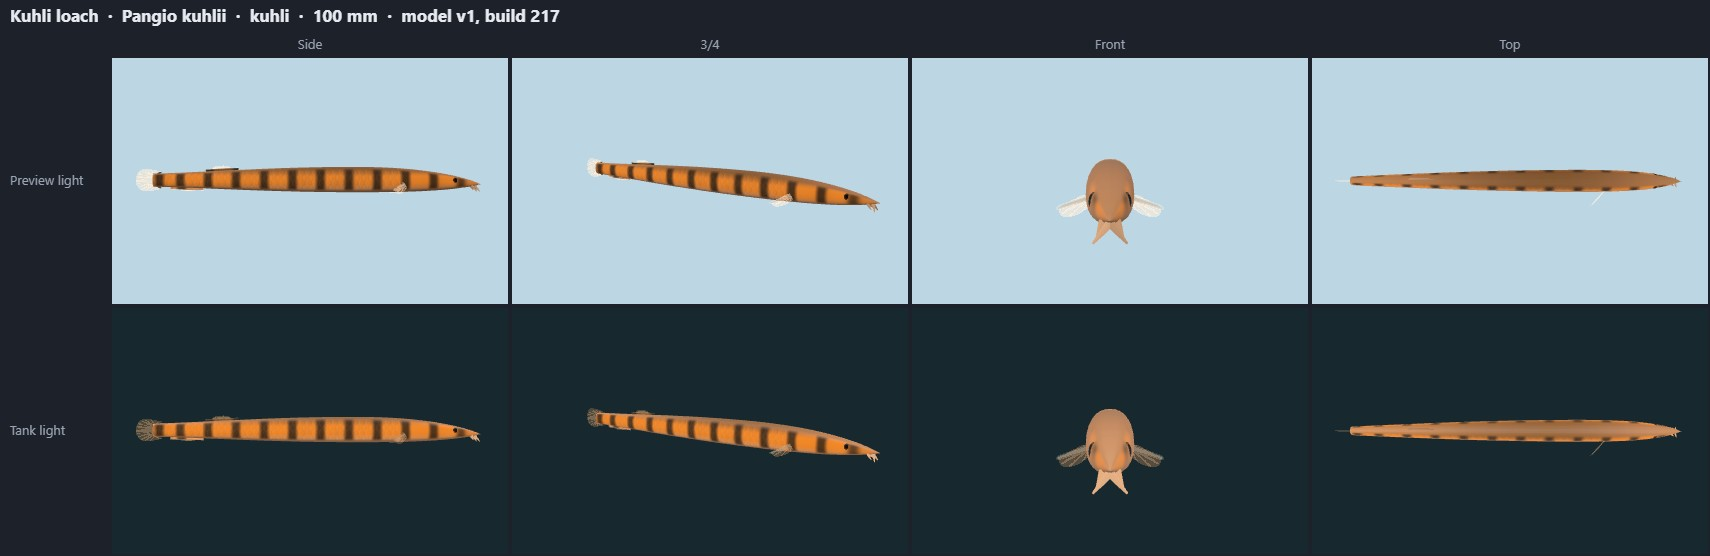
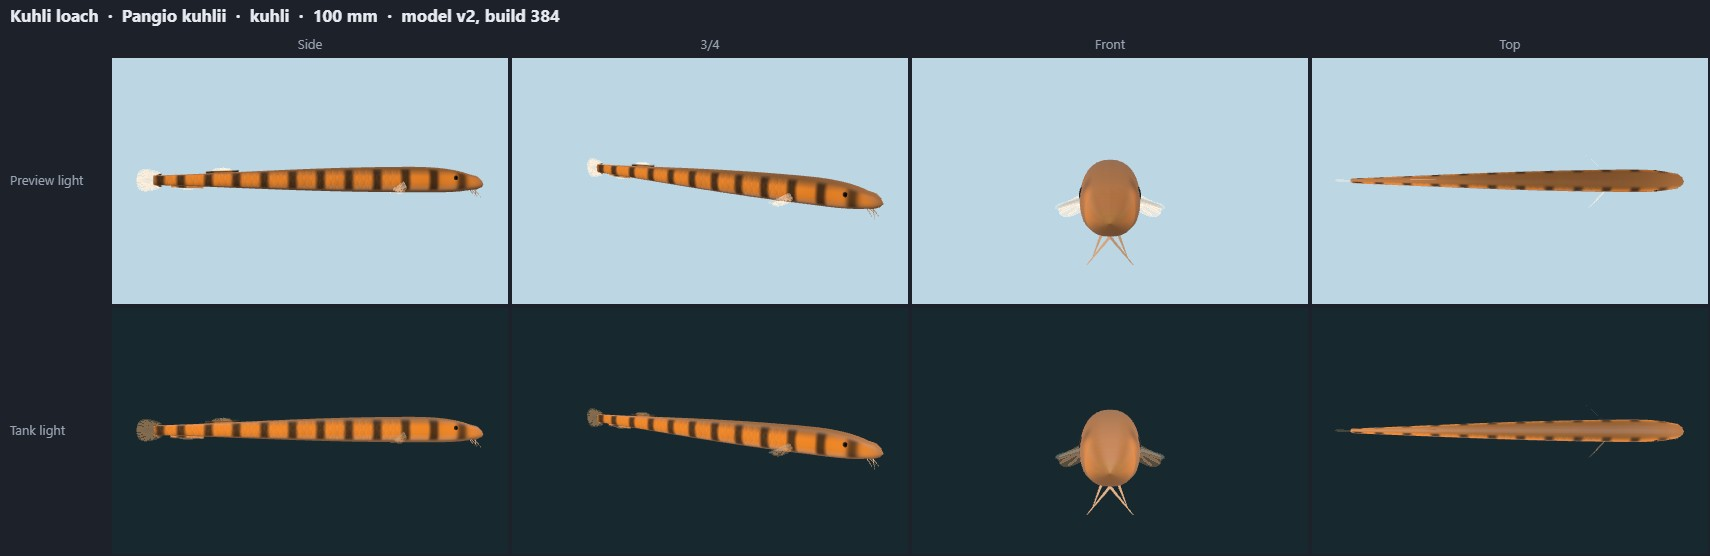
Lane F2: kuhli loach - blunt rounded head (noseCap), fine barbels (barbelR), tail compressed, v2

diff --git a/public/model-sheets/index.html b/public/model-sheets/index.html
@@ -10,7 +10,7 @@ figure { margin: 8px 0 14px; padding: 8px; background: var(--panel); border-radi
 img { display: block; max-width: 100%; height: auto }
 </style></head><body>
 <h1>Model sheets</h1>
-<p>Pre-rendered review images of every TankLook animal model (no WebGL needed): 69 models, 58 species, written at build 377.
+<p>Pre-rendered review images of every TankLook animal model (no WebGL needed): 69 models, 58 species, written at build 384.
 Each sheet shows the Side, 3/4, Front, Top views; top row in the plain preview light, bottom row at true size in the default tank's LED light and water.
 Click a sheet for the full-size image (1710 × 556 px). Interactive version: <a href="../review.html">review.html</a>.</p>
 <h2>Freshwater fish</h2>
@@ -54,7 +54,7 @@ Click a sheet for the full-size image (1710 × 556 px). Interactive version: <a 
 <figure id="pandacory"><figcaption><b>Panda corydoras</b> · <i>Corydoras panda</i> · pandacory · 50 mm · model v2 (build 359, 2026-10-14)</figcaption><a href="pandacory.jpg"><img src="pandacory.jpg" width="1710" height="556" loading="lazy" alt="Panda corydoras (Corydoras panda), model v2: Side, 3/4, Front, Top views, preview light (top row) and tank light (bottom row)"></a></figure>
 <figure id="bristlenose"><figcaption><b>Bristlenose pleco</b> · <i>Ancistrus sp.</i> · bristlenose · 125 mm · model v2 (build 334, 2026-10-14)</figcaption><a href="bristlenose.jpg"><img src="bristlenose.jpg" width="1710" height="556" loading="lazy" alt="Bristlenose pleco (Ancistrus sp.), model v2: Side, 3/4, Front, Top views, preview light (top row) and tank light (bottom row)"></a></figure>
 <figure id="oto"><figcaption><b>Otocinclus</b> · <i>Otocinclus vittatus</i> · oto · 40 mm · model v2 (build 359, 2026-10-14)</figcaption><a href="oto.jpg"><img src="oto.jpg" width="1710" height="556" loading="lazy" alt="Otocinclus (Otocinclus vittatus), model v2: Side, 3/4, Front, Top views, preview light (top row) and tank light (bottom row)"></a></figure>
-<figure id="kuhli"><figcaption><b>Kuhli loach</b> · <i>Pangio kuhlii</i> · kuhli · 100 mm · model v1 (build 217, 2026-10-14)</figcaption><a href="kuhli.jpg"><img src="kuhli.jpg" width="1710" height="556" loading="lazy" alt="Kuhli loach (Pangio kuhlii), model v1: Side, 3/4, Front, Top views, preview light (top row) and tank light (bottom row)"></a></figure>
+<figure id="kuhli"><figcaption><b>Kuhli loach</b> · <i>Pangio kuhlii</i> · kuhli · 100 mm · model v2 (build 384, 2026-10-14)</figcaption><a href="kuhli.jpg"><img src="kuhli.jpg" width="1710" height="556" loading="lazy" alt="Kuhli loach (Pangio kuhlii), model v2: Side, 3/4, Front, Top views, preview light (top row) and tank light (bottom row)"></a></figure>
 <figure id="clownloach"><figcaption><b>Clown loach</b> · <i>Chromobotia macracanthus</i> · clownloach · 200 mm · model v2 (build 359, 2026-10-14)</figcaption><a href="clownloach.jpg"><img src="clownloach.jpg" width="1710" height="556" loading="lazy" alt="Clown loach (Chromobotia macracanthus), model v2: Side, 3/4, Front, Top views, preview light (top row) and tank light (bottom row)"></a></figure>
 <figure id="sae"><figcaption><b>Siamese algae eater</b> · <i>Crossocheilus oblongus</i> · sae · 150 mm · model v2 (build 359, 2026-10-14)</figcaption><a href="sae.jpg"><img src="sae.jpg" width="1710" height="556" loading="lazy" alt="Siamese algae eater (Crossocheilus oblongus), model v2: Side, 3/4, Front, Top views, preview light (top row) and tank light (bottom row)"></a></figure>
 <figure id="peapuffer"><figcaption><b>Pea puffer ♂</b> · <i>Carinotetraodon travancoricus</i> · peapuffer · 30 mm · model v2 (build 351, 2026-10-14)</figcaption><a href="peapuffer.jpg"><img src="peapuffer.jpg" width="1710" height="556" loading="lazy" alt="Pea puffer ♂ (Carinotetraodon travancoricus), model v2: Side, 3/4, Front, Top views, preview light (top row) and tank light (bottom row)"></a></figure>

diff --git a/src/art/fishgen.ts b/src/art/fishgen.ts
@@ -670,9 +670,10 @@ export const PLANS: Record<string, Plan> = {
     dorsal: { at: 0.63, len: 0.12, h: 0.1, spines: 0.12, nSp: 1, spineH: 0.12, rake: 0.12, drop: 0.35 }, anal: { u0: 0.33, u1: 0.4, h: 0.04 }, pelvic: { u: 0.58, len: 0.07, w: 1.2 },
     marks: [{ k: 'band', u0: 0.18, u1: 0.98, v0: -0.015, v1: 0.012, c: '#2a2820', a: 0.85, f: 0.008 }], finMarks: [{ k: 'blob', u: 0.08, v: 0, ru: 0.04, rv: 0.025, c: '#2a2820', a: 0.7 }],
     eye: { r: 0.024, iris: ['#b0a070', '#2a2418'], dv: -0.08, up: 0.3 } },
-  kuhli: { thick: 0.85, depth: 0.085, pedU: 0.05, ped: 0.025, peak: 0.6, back: 0.55, snout: 0.6, mouth: 0.01, shade: ['#4a3a2a', '#d88a5a', '#ecc0a0'], tail: { type: 'round', h: 0.035, tint: '#c88a62' }, fin: '#d09a72',
+  // blunt loach head, fine cylindrical barbels, the trunk fullest behind mid-body and the tail laterally compressed
+  kuhli: { thick: 0.85, pedT: 0.35, depth: 0.085, pedU: 0.05, ped: 0.02, peak: 0.78, back: 0.55, snout: 0.95, noseCap: 0.04, mouth: 0.01, barbelR: 0.0013, shade: ['#4a3a2a', '#d88a5a', '#ecc0a0'], tail: { type: 'round', h: 0.035, tint: '#c88a62' }, fin: '#d09a72',
     dorsal: { u0: 0.22, u1: 0.28, h: 0.025, shape: 'round' }, anal: { u0: 0.12, u1: 0.18, h: 0.02, shape: 'round' },
-    marks: [{ k: 'bars', us: [0.93, 0.85, 0.77, 0.69, 0.61, 0.53, 0.45, 0.37, 0.29, 0.21, 0.13, 0.07], w: 0.035, c: '#2a2018', a: 0.85 }], barbels: 0.012,
+    marks: [{ k: 'bars', us: [0.93, 0.85, 0.77, 0.69, 0.61, 0.53, 0.45, 0.37, 0.29, 0.21, 0.13, 0.07], w: 0.035, c: '#2a2018', a: 0.85 }], barbels: 0.016,
     eye: { r: 0.008, iris: ['#6a5040', '#1a1008'] }, rim: 0.012 },
   clownloach: { pec: { s: 1.6, v: 0.75 }, gape: 0.025, thick: 0.6, belly: 0.4, depth: 0.29, pedU: 0.18, ped: 0.045, peak: 0.52, back: 0.62, snout: 0.38, mouth: 0.05, shade: ['#c8742a', '#e8a040', '#f0c070'], tail: { type: 'fork', h: 0.15, tint: '#c8443a' }, fin: '#c8443a',
     dorsal: { at: 0.64, len: 0.16, h: 0.13, rake: 0.25, drop: 0.55 }, anal: { at: 0.4, len: 0.1, h: 0.085, rake: 0.4, drop: 0.6 }, pelvic: { u: 0.56, len: 0.1, w: 1.3 },
